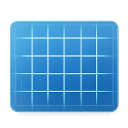
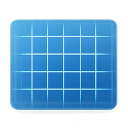
adjusted left panel button colors

Changed region(s): [[0.0625, 0.125, 0.9375, 0.9062]]

diff --git a/echograph/ui/gl_view.py b/echograph/ui/gl_view.py
@@ -561,8 +561,16 @@ class GraphGLView(MGLRendererMixin, QOpenGLWidget if QOpenGLWidget is not None e
         if getattr(self, "_controls", None) is not None:
             h = int(getattr(self, "_controls_h", 44))
             self._controls.setGeometry(0, max(0, self.height() - h), self.width(), h)
+        toggle_frame = getattr(self, "_debug_toggle_btn_frame", None)
         toggle = getattr(self, "_debug_toggle_btn", None)
-        if toggle is not None:
+        if toggle_frame is not None:
+            toggle_frame.setGeometry(
+                self._side_btn_margin,
+                self._side_btn_margin,
+                self._side_btn_size,
+                self._side_btn_size,
+            )
+        elif toggle is not None:
             toggle.setGeometry(
                 self._side_btn_margin,
                 self._side_btn_margin,
@@ -965,6 +973,7 @@ class GraphGLView(MGLRendererMixin, QOpenGLWidget if QOpenGLWidget is not None e
             btn.clicked.connect(self._toggle_debug_overlay)
             self._debug_toggle_btn = btn
             self._update_debug_toggle_button()
+            self._debug_toggle_btn_frame = self._wrap_side_button(self._debug_toggle_btn, "_debug_toggle_btn_frame")
             btn.show()
         except Exception:
             self._debug_toggle_btn = None
@@ -1020,16 +1029,7 @@ class GraphGLView(MGLRendererMixin, QOpenGLWidget if QOpenGLWidget is not None e
             btn.setText("")
         else:
             btn.setText("^" if self._debug_overlay else "v")
-        if self._debug_overlay:
-            bg = "rgba(30,41,59,230)"
-        else:
-            bg = "rgba(15,23,42,210)"
-        btn.setStyleSheet(
-            "QToolButton{background:%s;border:1px solid #334155;"
-            "color:#e2e8f0;padding:0px;border-radius:4px;font-size:11px;}"
-            "QToolButton:hover{background:rgba(51,65,85,230);}"
-            % bg
-        )
+        self._apply_side_icon_style(btn, active=self._debug_overlay)
 
     def _toggle_debug_overlay(self) -> None:
         self._debug_overlay = not self._debug_overlay
@@ -1062,16 +1062,17 @@ class GraphGLView(MGLRendererMixin, QOpenGLWidget if QOpenGLWidget is not None e
     def _apply_side_icon_style(self, btn: QtWidgets.QToolButton | None, active: bool = False) -> None:
         if btn is None:
             return
-        bg = "#9aa2aa" if active else "#8f959c"
-        hover = "#a9b0b8"
-        pressed = "#7c828a"
+        bg = "#2a2f34" if active else "#22272c"
+        hover = "#3a4046"
+        pressed = "#1b2025"
         btn.setStyleSheet(
             "QToolButton{background:%s;border:0px;"
-            "color:#1f2937;padding:0px;border-radius:4px;font-size:10px;}"
+            "color:#1f2937;padding:0px;border-radius:3px;font-size:10px;}"
             "QToolButton:hover{background:%s;}"
             "QToolButton:pressed{background:%s;}"
             "QToolButton:checked{background:%s;}"
-            % (bg, hover, pressed, bg)
+            "QToolButton:checked:hover{background:%s;}"
+            % (bg, hover, pressed, bg, hover)
         )
 
     def _wrap_side_button(
@@ -1090,7 +1091,7 @@ class GraphGLView(MGLRendererMixin, QOpenGLWidget if QOpenGLWidget is not None e
         else:
             frame.setParent(self)
         frame.setStyleSheet(
-            "QFrame#GLSideIconFrame{background:#c3c8ce;border:1px solid #2f353c;border-radius:6px;}"
+            "QFrame#GLSideIconFrame{background:#555b61;border:1px solid #0f1418;border-radius:4px;}"
         )
         inner = max(1, int(self._side_btn_size - (2 * self._side_btn_inner_pad)))
         icon = min(self._side_btn_icon, inner)
